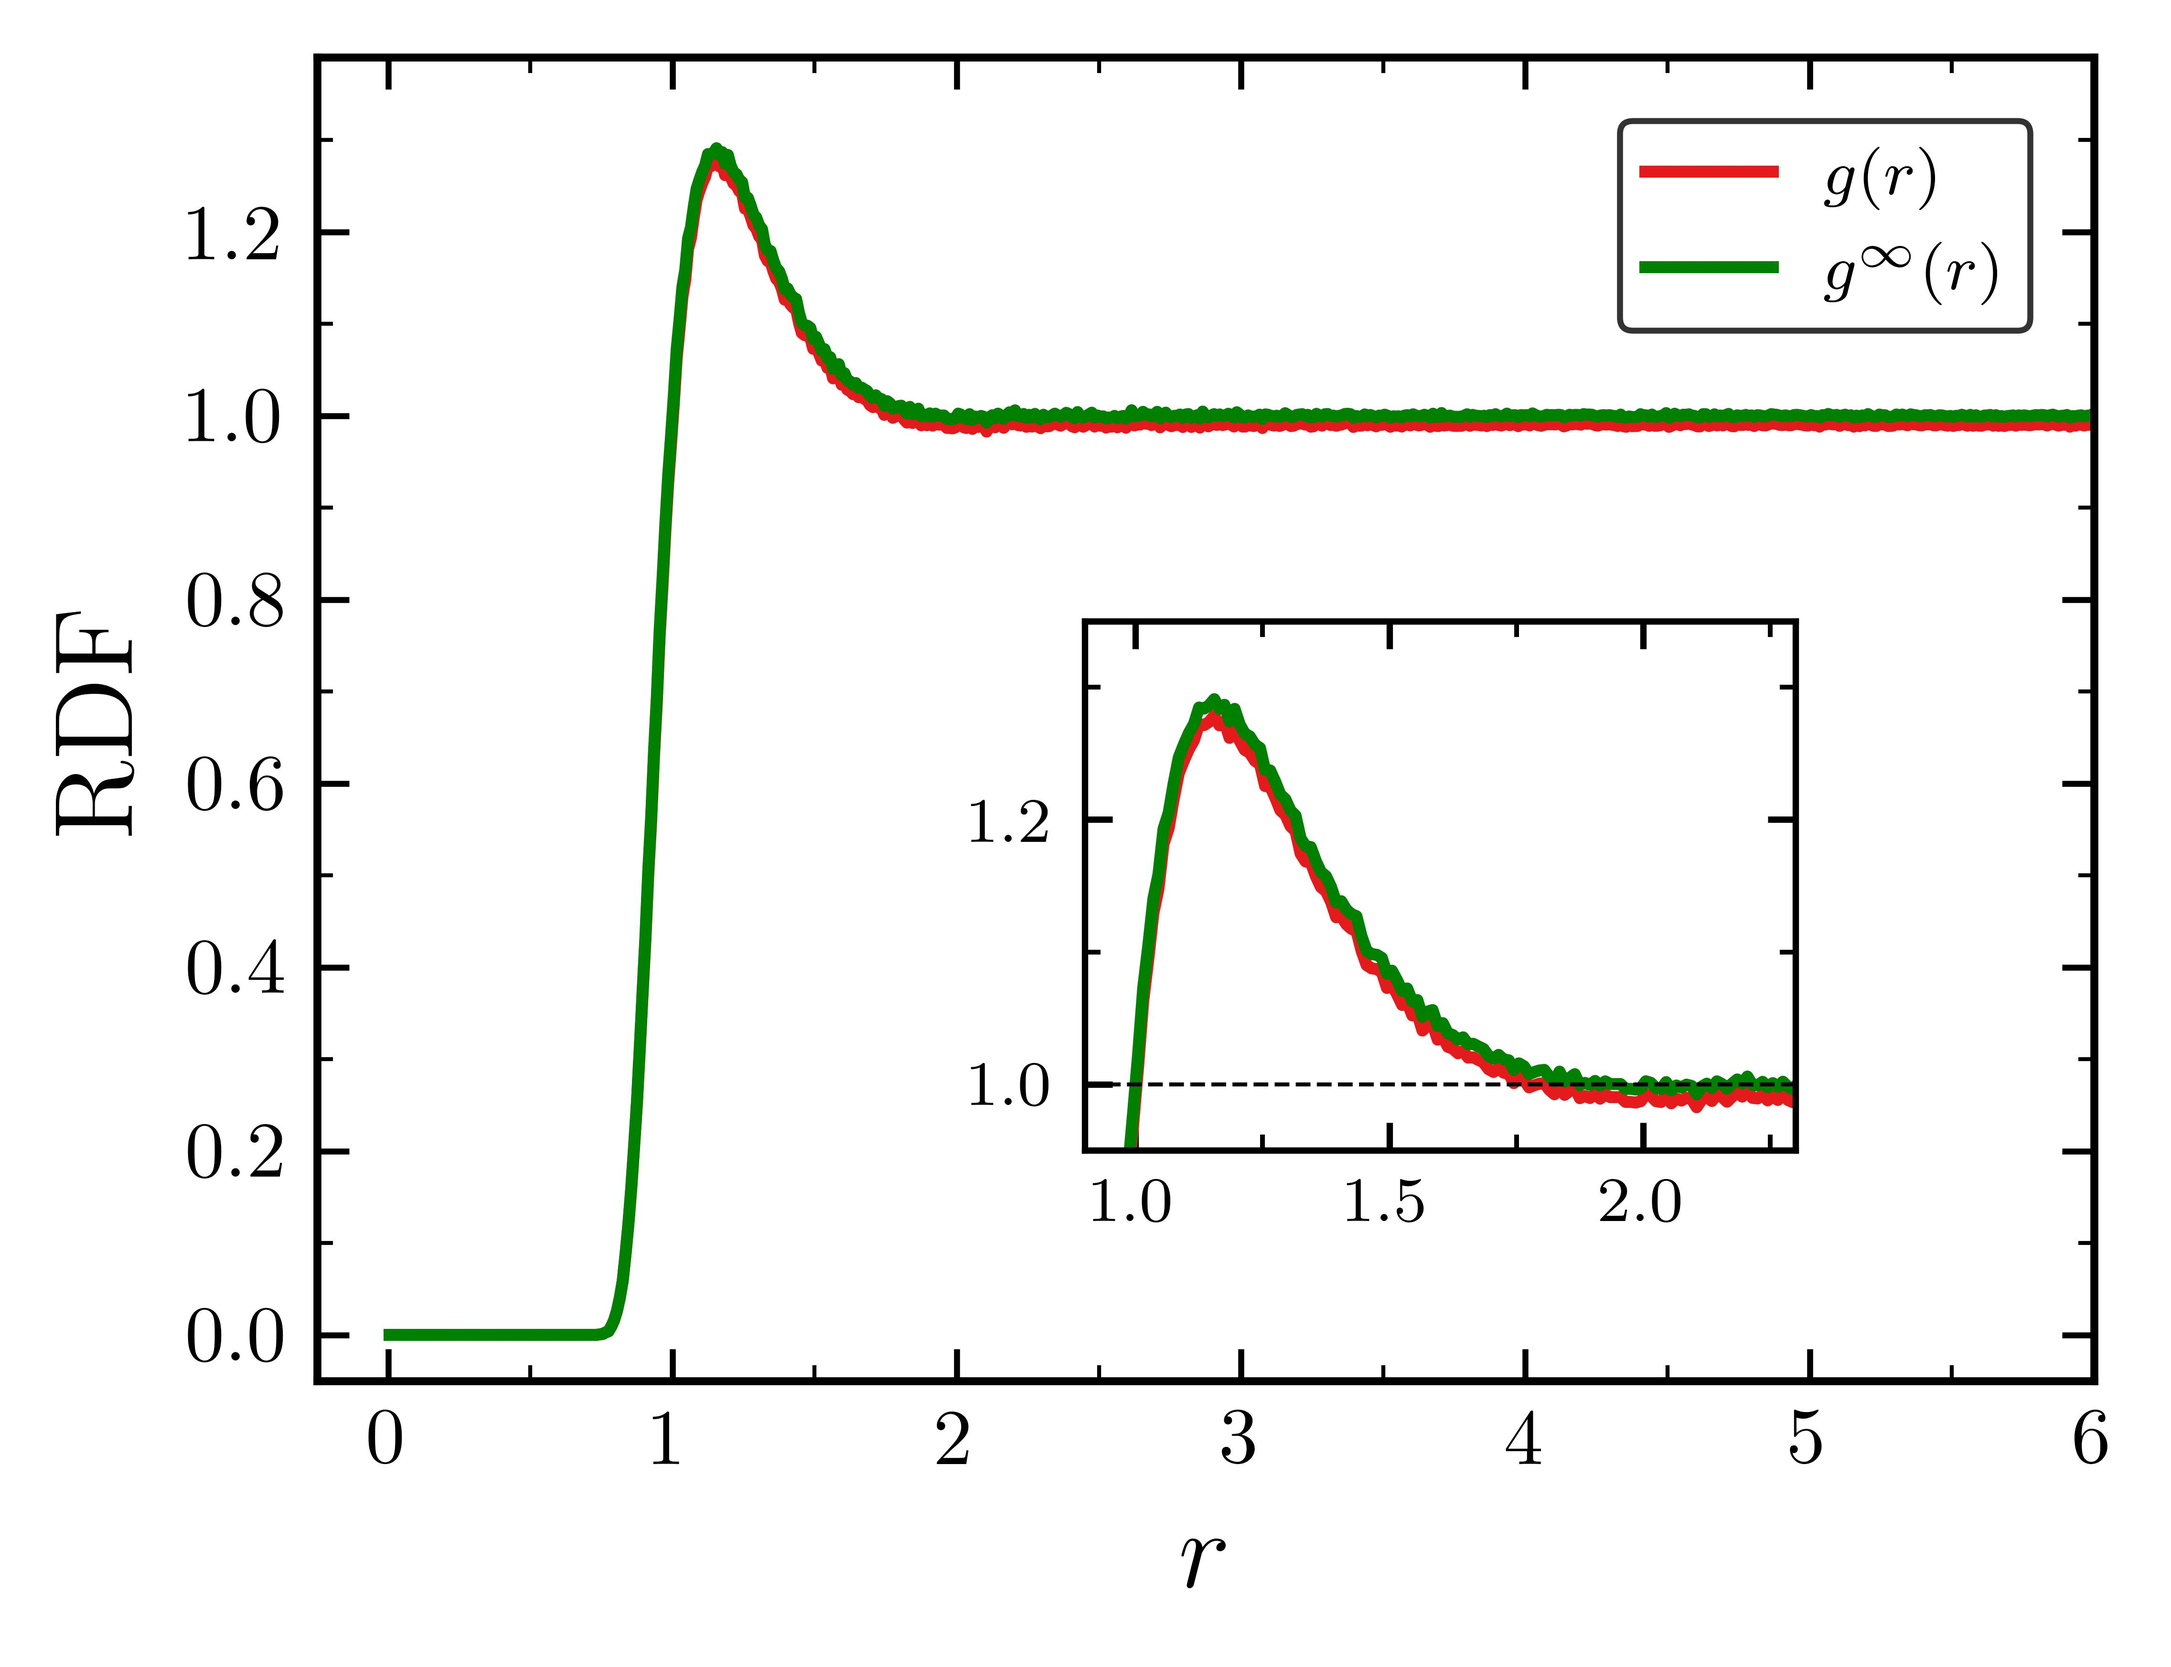
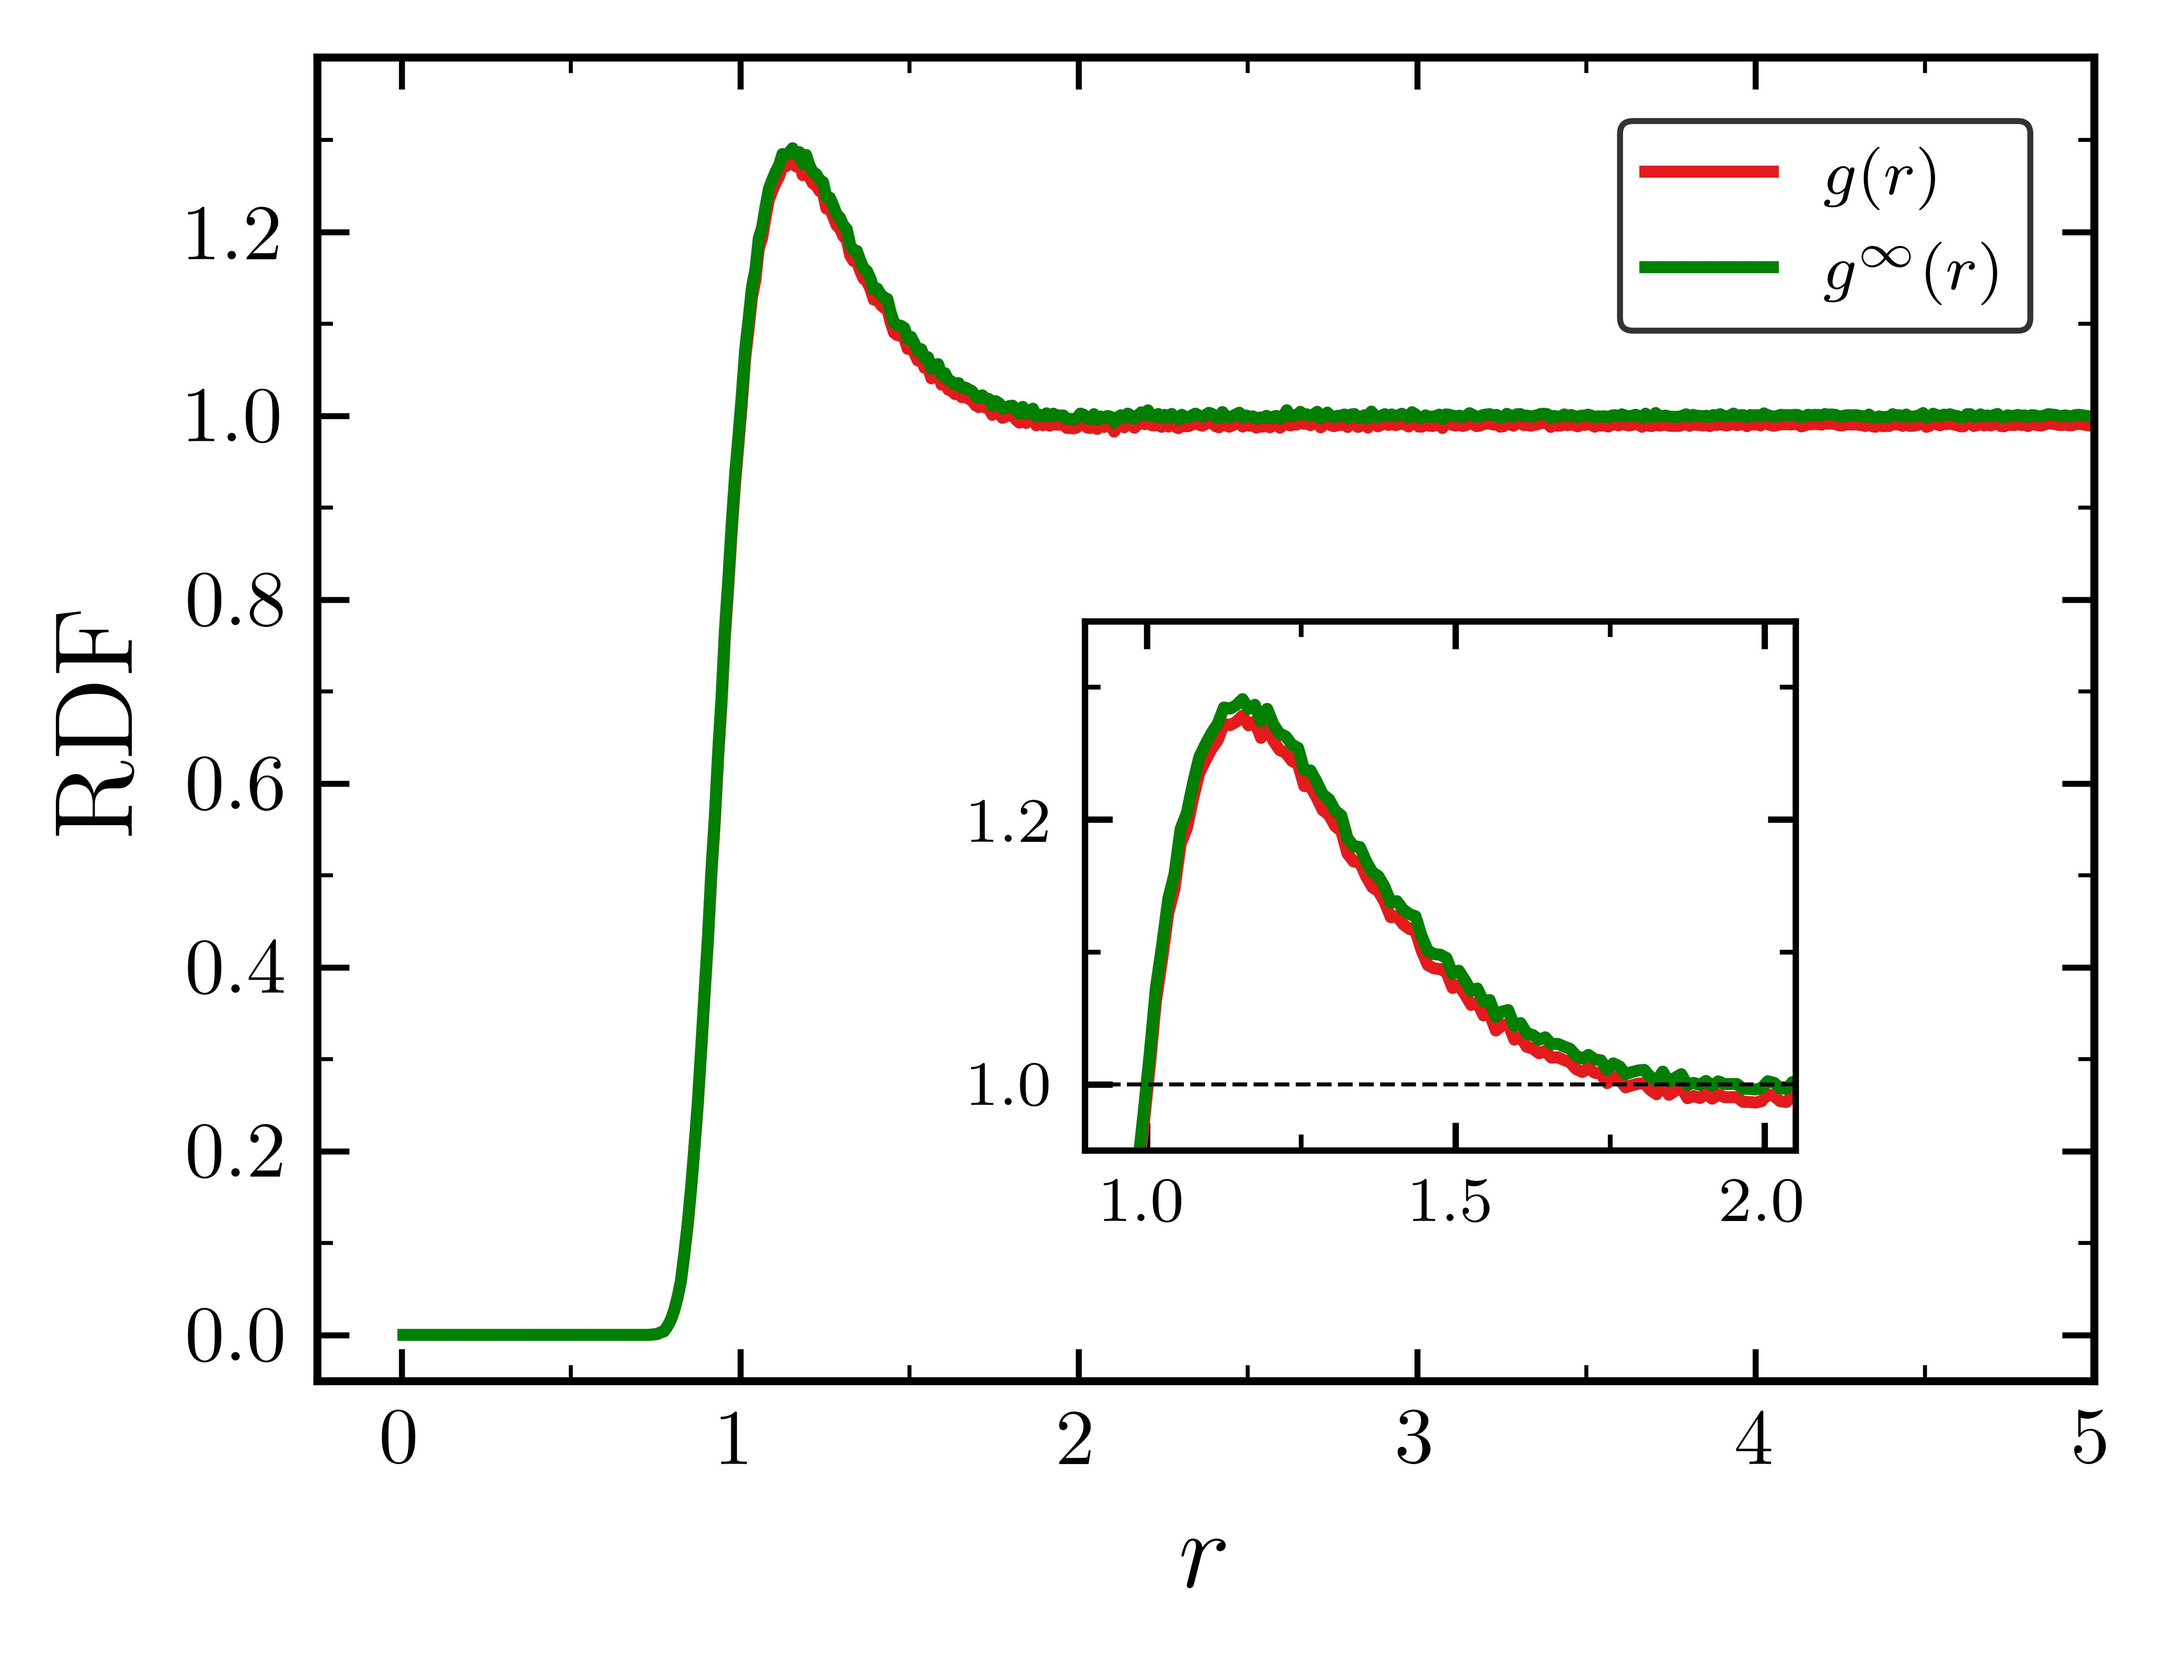
update-12/1/2025-revision

diff --git a/REVISION_PLOTS/radial_plot_100.py b/REVISION_PLOTS/radial_plot_100.py
@@ -72,7 +72,7 @@ with plt.style.context([ 'ieee']):
     plt.xlabel(r'$r$', fontsize=label_fontsize)
     plt.ylabel(r'RDF',fontsize=label_fontsize)
     
-    plt.xlim(-0.25, 6)
+    plt.xlim(-0.25, 5)
     plt.ylim(-0.05, 1.39)
     ax.xaxis.set_major_locator(MultipleLocator(1))
     ax.xaxis.set_minor_locator(MultipleLocator(0.5))
@@ -108,7 +108,7 @@ with plt.style.context([ 'ieee']):
     ax_inset.axhline(1, color="black", linewidth=0.5, linestyle='--')
     
     # Zoom-in region
-    x_min, x_max = 0.9, 2.3  
+    x_min, x_max = 0.9, 2.05  
     y_min, y_max = 0.95, 1.35
     ax_inset.set_xlim(x_min, x_max)
     ax_inset.set_ylim(y_min, y_max)

diff --git a/REVISION_PLOTS/radial_plot_500.py b/REVISION_PLOTS/radial_plot_500.py
@@ -73,7 +73,7 @@ with plt.style.context([ 'ieee']):
     plt.xlabel(r'$r$', fontsize=label_fontsize)
     plt.ylabel(r'RDF',fontsize=label_fontsize)
     
-    plt.xlim(-0.25, 6)
+    plt.xlim(-0.25, 5)
     plt.ylim(-0.05, 1.39)
     ax.xaxis.set_major_locator(MultipleLocator(1))
     ax.xaxis.set_minor_locator(MultipleLocator(0.5))
@@ -108,7 +108,7 @@ with plt.style.context([ 'ieee']):
     ax_inset.axhline(1, color="black", linewidth=0.5, linestyle='--')
     
     # Zoom-in region
-    x_min, x_max = 0.9, 2.3  
+    x_min, x_max = 0.9, 2.05  
     y_min, y_max = 0.95, 1.35
     ax_inset.set_xlim(x_min, x_max)
     ax_inset.set_ylim(y_min, y_max)
